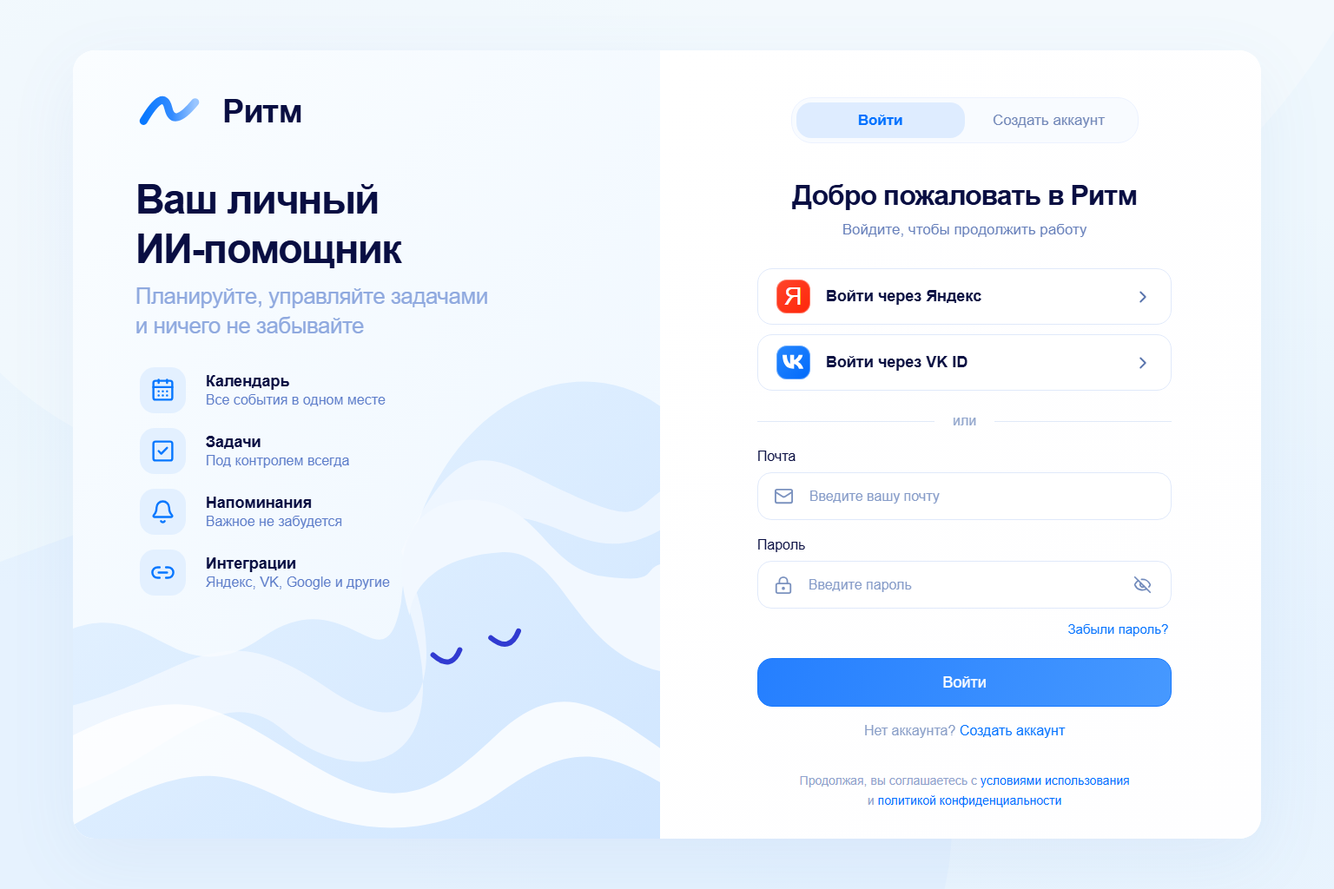
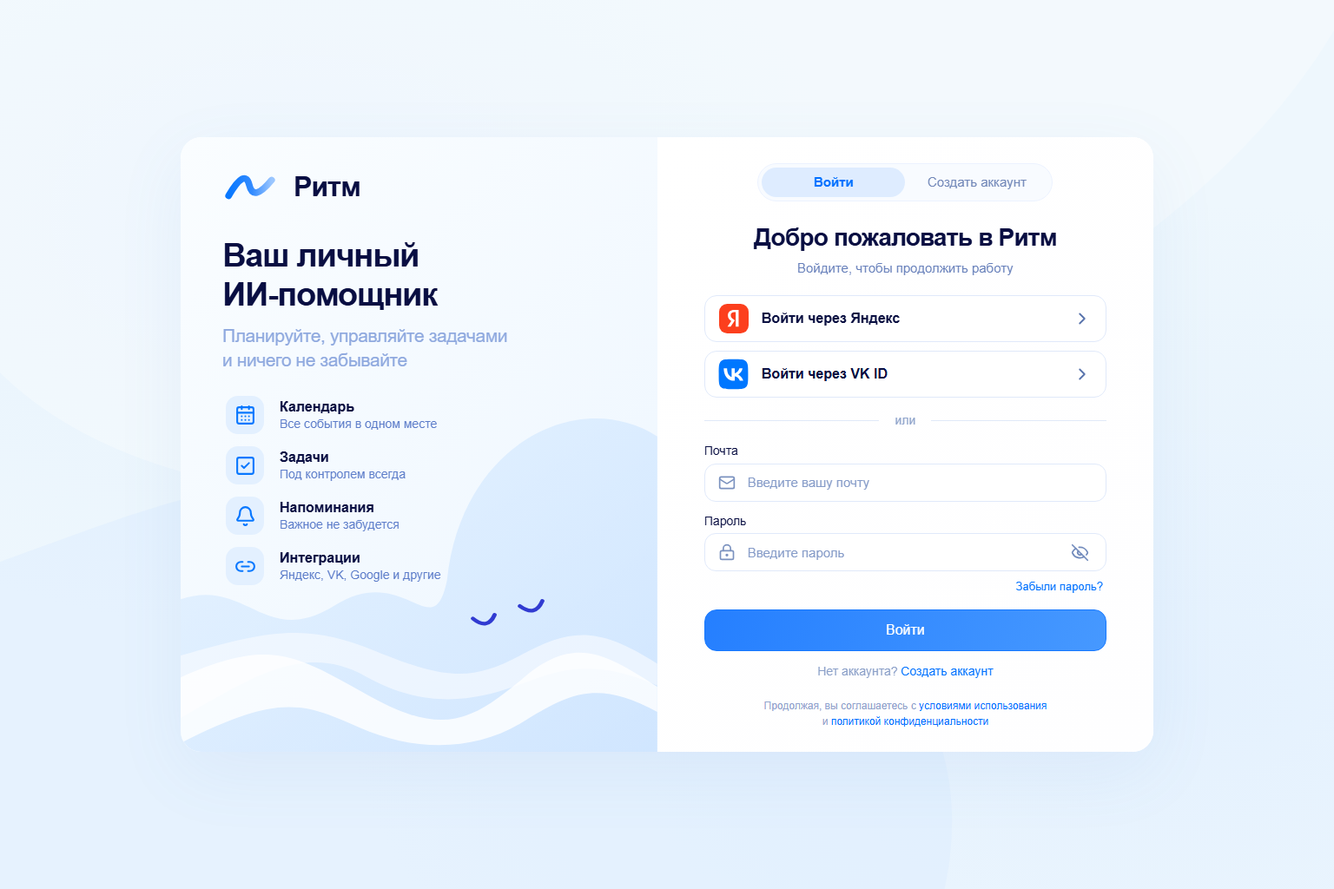
fix(auth): fit viewport and use official provider marks

diff --git a/web/src/styles/auth.css b/web/src/styles/auth.css
@@ -1,25 +1,23 @@
-.auth-page{min-height:100dvh;padding:56px max(24px,5.45vw);display:flex;justify-content:center;align-items:center;color:#090e42;background:radial-gradient(ellipse at 22% 24%,#dcecff66,transparent 44%),radial-gradient(ellipse at 88% 78%,#dcecff88,transparent 50%),#eef7fd;position:relative;isolation:isolate}
+.auth-page{min-height:100dvh;padding:32px max(20px,5vw);display:flex;justify-content:center;align-items:center;color:#090e42;background:radial-gradient(ellipse at 22% 24%,#dcecff66,transparent 44%),radial-gradient(ellipse at 88% 78%,#dcecff88,transparent 50%),#eef7fd;position:relative;isolation:isolate;font-family:Arial,'Segoe UI',sans-serif}
+html:has(.auth-page),html:has(.auth-splash){scrollbar-gutter:auto}
 .auth-page::before,.auth-page::after{content:'';position:fixed;z-index:-1;border-radius:47%;background:#fff5;pointer-events:none;width:115vw;height:68vw;transform:rotate(-20deg);top:-35vw;left:-9vw}.auth-page::after{top:58vh;left:-42vw;background:#d9ecff66}
-.auth-container{width:1370px;max-width:100%;min-height:908px;border-radius:25px;overflow:hidden;display:grid;grid-template-columns:49.4% 50.6%;box-shadow:0 24px 80px #548ac814;background:white;animation:auth-enter .6s cubic-bezier(.2,.7,.2,1) both;transition:opacity .24s ease,transform .24s ease}.auth-success{opacity:0;transform:scale(.985)}
-.auth-information{padding:47px 72px;position:relative;overflow:hidden;background:linear-gradient(135deg,#fafdff,#edf6ff)}.auth-brand{display:flex;align-items:center;gap:22px;font-size:38px;font-weight:700;letter-spacing:-.9px;position:relative;z-index:1}.auth-brand .brand-mark,.auth-mobile-brand .brand-mark{color:#2783ff;width:78px;height:48px}.auth-brand,.auth-pitch,.auth-features{animation:auth-enter .65s cubic-bezier(.2,.7,.2,1) both}
-.auth-pitch{margin-top:51px;position:relative;z-index:1;animation-delay:.07s}.auth-pitch h1{font-size:47px;letter-spacing:-1.6px;line-height:1.21;font-weight:720}.auth-pitch>p{color:#8fa9df;font-size:26px;line-height:1.3;margin-top:12px;letter-spacing:-.5px}.auth-features{position:relative;z-index:1;padding:0;margin:34px 0 0 5px;list-style:none;display:grid;gap:17px;animation-delay:.14s}.auth-features li{display:flex;align-items:center;gap:23px}.auth-features li>span{display:grid;place-items:center;width:53px;height:53px;flex-shrink:0;border-radius:17px;background:#e3f0ff;color:#0777ff}.auth-features strong{font-size:18px;font-weight:650}.auth-features p{font-size:16px;color:#5c7cc9;margin-top:2px}
-.auth-waves{position:absolute;bottom:-4px;left:0;width:100%;height:58%;pointer-events:none}.auth-wave-face{animation:auth-float 6s ease-in-out infinite}.auth-card{padding:54px clamp(38px,6.7vw,103px) 33px clamp(38px,7.3vw,112px);display:flex;flex-direction:column;min-width:0;background:linear-gradient(130deg,#fff,#fefeff)}.auth-mobile-brand{display:none}
-.auth-segment{position:relative;align-self:center;width:400px;max-width:100%;border:1px solid #ecf2ff;border-radius:24px;background:#f8fbff;height:53px;padding:5px;display:grid;grid-template-columns:1fr 1fr;flex-shrink:0}.auth-segment>span{position:absolute;top:5px;bottom:5px;left:5px;width:calc(50% - 5px);border-radius:17px;background:#deecff;transition:transform .32s cubic-bezier(.2,.7,.2,1)}.auth-segment>span.register-selected{transform:translateX(100%)}.auth-segment button{position:relative;z-index:1;padding:0;border:0;background:transparent;color:#7187b8;font-size:17px}.auth-segment button[aria-selected='true']{color:#0071ff;font-weight:650}
-.auth-experience{opacity:1;transform:translateX(0);transition:opacity .16s ease,transform .2s ease}.auth-switching{opacity:0;transform:translateX(-8px)}.auth-welcome{text-align:center;margin:40px -25px 30px}.auth-welcome h2{font-size:32px;font-weight:700;letter-spacing:-1px;line-height:1.25}.auth-welcome p{color:#667fba;font-size:17px;margin-top:10px}.auth-oauth{display:grid;gap:11px}.auth-oauth>button{border:1px solid #e0e9fa;border-radius:17px;min-height:65px;display:flex;align-items:center;gap:18px;padding:11px 21px;color:#0a1042;background:#fff;text-align:left;font-size:18px;font-weight:550;transition:transform .18s ease,box-shadow .18s ease,border-color .18s ease}.auth-oauth>button>svg{margin-left:auto;color:#5873ac;flex-shrink:0}.auth-oauth>button:hover:not(:disabled){transform:translateY(-1px);border-color:#a5c8ff;box-shadow:0 5px 15px #336bc40d}.auth-oauth>button:active:not(:disabled){transform:scale(.99)}
-.oauth-logo{width:39px;height:39px;display:grid;place-items:center;color:white;border-radius:12px;flex-shrink:0;box-shadow:inset 0 0 0 1px #ffffff55}.yandex-logo{background:linear-gradient(135deg,#ff442b,#ff2609);font-size:28px;font-weight:400}.vk-logo{background:linear-gradient(135deg,#2587ff,#0069fa)}.vk-logo svg{width:32px;height:32px}.auth-divider{display:flex;align-items:center;gap:21px;margin:24px 0 17px;color:#91a5cc;font-size:16px}.auth-divider span{height:1px;flex:1;background:#e0e9f8}
-.auth-form{display:flex;flex-direction:column;gap:18px}.auth-label{display:flex;flex-direction:column;gap:9px;font-size:16px}.auth-input{display:flex;align-items:center;border:1px solid #e0e9fa;border-radius:16px;height:55px;color:#7b92bf;padding:0 18px;gap:18px;background:#fff;transition:box-shadow .2s ease,border-color .2s ease}.auth-input:focus-within{border-color:#72aaff;box-shadow:0 0 0 4px #1679ff12}.auth-input>svg{flex-shrink:0}.auth-input input{width:100%;outline:0;border:0;border-radius:0;padding:0;background:transparent;font-size:16px;box-shadow:none}.auth-input input::placeholder{color:#859bc8}.auth-input button{border:0;background:none;color:#728bbc;display:grid;place-items:center;padding:4px;margin-right:0}.auth-forgot{align-self:flex-end;color:#0071ff;font-size:15px;border:0;background:none;padding:0 4px;margin-top:-5px}
-.auth-primary{border:1px solid #1678ff;border-radius:17px;min-height:56px;width:100%;padding:12px 18px;display:flex;align-items:center;justify-content:center;gap:12px;background:linear-gradient(110deg,#257fff,#50a0ff);color:#fff;font-size:18px;font-weight:500;transition:transform .2s ease,box-shadow .2s ease,background-position .3s ease;background-size:130% 100%}.auth-form>.auth-primary{margin-top:5px}.auth-primary:hover:not(:disabled){transform:translateY(-1px);background-position:100% 0;box-shadow:0 7px 18px #287eff29}.auth-primary:active:not(:disabled){transform:scale(.99)}.auth-primary:disabled{opacity:.72}.auth-alternate{text-align:center;color:#8a9fc8;margin-top:19px;font-size:16px}.auth-alternate button{padding:0;color:#0071ff;border:0;background:none}.auth-legal{text-align:center;font-size:14px;color:#90a4ce;line-height:1.6;margin-top:auto;padding-top:34px}.auth-legal a{color:#0071ff}
-.auth-error,.auth-help{border-radius:12px;padding:11px 14px;background:#fff1f2;color:#b32c46;font-size:14px;line-height:1.45;animation:auth-enter .2s ease both}.auth-help{color:#5873aa;background:#eff6ff}.auth-register-field{display:grid;grid-template-rows:0fr;transition:grid-template-rows .32s ease;margin-top:-18px}.auth-register-field>div{overflow:hidden}.auth-register-field.expanded{grid-template-rows:1fr;margin-top:0}.register-mode .auth-welcome{margin-top:28px;margin-bottom:24px}.auth-spinner{animation:auth-spin .9s linear infinite}
+.auth-container{--form-gap:14px;--field-height:44px;--label-gap:6px;--oauth-height:54px;--primary-height:48px;width:1120px;max-width:100%;border-radius:24px;overflow:hidden;display:grid;grid-template-columns:49% 51%;box-shadow:0 24px 80px #548ac814;background:white;animation:auth-enter .6s cubic-bezier(.2,.7,.2,1) both;transition:opacity .24s ease,transform .24s ease}.auth-success{opacity:0;transform:scale(.985)}
+.auth-information{padding:38px 48px;position:relative;overflow:hidden;background:linear-gradient(135deg,#fafdff,#edf6ff)}.auth-brand{display:flex;align-items:center;gap:18px;font-size:32px;font-weight:700;letter-spacing:-.9px;position:relative;z-index:1}.auth-brand .brand-mark,.auth-mobile-brand .brand-mark{color:#2783ff;width:64px;height:40px}.auth-brand,.auth-pitch,.auth-features{animation:auth-enter .65s cubic-bezier(.2,.7,.2,1) both}
+.auth-pitch{margin-top:36px;position:relative;z-index:1;animation-delay:.07s}.auth-pitch h1{font-size:38px;letter-spacing:-1.3px;line-height:1.21;font-weight:720}.auth-pitch>p{color:#8fa9df;font-size:21px;line-height:1.3;margin-top:10px;letter-spacing:-.4px}.auth-features{position:relative;z-index:1;padding:0;margin:28px 0 0 4px;list-style:none;display:grid;gap:14px;animation-delay:.14s}.auth-features li{display:flex;align-items:center;gap:18px}.auth-features li>span{display:grid;place-items:center;width:44px;height:44px;flex-shrink:0;border-radius:14px;background:#e3f0ff;color:#0777ff}.auth-features li>span>svg{width:25px;height:25px}.auth-features strong{font-size:16px;font-weight:650}.auth-features p{font-size:14px;color:#5c7cc9;margin-top:2px}
+.auth-waves{position:absolute;bottom:-4px;left:0;width:100%;height:60%;pointer-events:none}.auth-wave-face{animation:auth-float 6s ease-in-out infinite}.auth-card{padding:30px 54px 26px;display:flex;flex-direction:column;min-width:0;background:linear-gradient(130deg,#fff,#fefeff)}.auth-mobile-brand{display:none}
+.auth-segment{position:relative;align-self:center;width:340px;max-width:100%;border:1px solid #ecf2ff;border-radius:22px;background:#f8fbff;height:44px;padding:4px;display:grid;grid-template-columns:1fr 1fr;flex-shrink:0}.auth-segment>span{position:absolute;top:4px;bottom:4px;left:4px;width:calc(50% - 4px);border-radius:17px;background:#deecff;transition:transform .32s cubic-bezier(.2,.7,.2,1)}.auth-segment>span.register-selected{transform:translateX(100%)}.auth-segment button{position:relative;z-index:1;padding:0;border:0;background:transparent;color:#7187b8;font-size:15px}.auth-segment button[aria-selected='true']{color:#0071ff;font-weight:650}
+.auth-experience{opacity:1;transform:translateX(0);transition:opacity .16s ease,transform .2s ease}.auth-switching{opacity:0;transform:translateX(-8px)}.auth-welcome{text-align:center;margin:24px -12px 22px}.auth-welcome h2{font-size:28px;font-weight:700;letter-spacing:-.8px;line-height:1.25}.auth-welcome p{color:#667fba;font-size:15px;line-height:1.3;margin-top:8px}.auth-oauth{display:grid;gap:10px}.auth-oauth>button{border:1px solid #e0e9fa;border-radius:14px;min-height:var(--oauth-height);display:flex;align-items:center;gap:15px;padding:7px 16px;color:#0a1042;background:#fff;text-align:left;font-size:16px;font-weight:550;transition:transform .18s ease,box-shadow .18s ease,border-color .18s ease}.auth-oauth>button>svg{margin-left:auto;color:#5873ac;flex-shrink:0}.auth-oauth>button:hover:not(:disabled){transform:translateY(-1px);border-color:#a5c8ff;box-shadow:0 5px 15px #336bc40d}.auth-oauth>button:active:not(:disabled){transform:scale(.99)}
+.oauth-logo{width:34px;height:34px;display:flex;align-items:center;justify-content:center;flex-shrink:0}.oauth-logo img{display:block;width:100%;height:auto;flex-shrink:0}.oauth-logo-vk img{width:127.2727%}.auth-divider{display:flex;align-items:center;gap:18px;margin:18px 0;color:#91a5cc;font-size:14px;line-height:1.2}.auth-divider span{height:1px;flex:1;background:#e0e9f8}
+.auth-form{display:flex;flex-direction:column;gap:var(--form-gap)}.auth-label{display:flex;flex-direction:column;gap:var(--label-gap);font-size:14px;line-height:1.2}.auth-input{display:flex;align-items:center;border:1px solid #e0e9fa;border-radius:13px;height:var(--field-height);color:#7b92bf;padding:0 15px;gap:14px;background:#fff;transition:box-shadow .2s ease,border-color .2s ease}.auth-input:focus-within{border-color:#72aaff;box-shadow:0 0 0 4px #1679ff12}.auth-input>svg{flex-shrink:0;width:20px;height:20px}.auth-input input{width:100%;min-width:0;outline:0;border:0;border-radius:0;padding:0;background:transparent;font-size:15px;line-height:1.3;box-shadow:none}.auth-input input::placeholder{color:#859bc8}.auth-input button{border:0;background:none;color:#728bbc;display:grid;place-items:center;padding:4px;margin-right:0}.auth-forgot{align-self:flex-end;color:#0071ff;font-size:13px;line-height:1.3;border:0;background:none;padding:0 4px;margin-top:-4px}
+.auth-primary{border:1px solid #1678ff;border-radius:14px;min-height:var(--primary-height,56px);width:100%;padding:9px 16px;display:flex;align-items:center;justify-content:center;gap:12px;background:linear-gradient(110deg,#257fff,#50a0ff);color:#fff;font-size:16px;font-weight:500;transition:transform .2s ease,box-shadow .2s ease,background-position .3s ease;background-size:130% 100%}.auth-form>.auth-primary{margin-top:3px}.auth-primary:hover:not(:disabled){transform:translateY(-1px);background-position:100% 0;box-shadow:0 7px 18px #287eff29}.auth-primary:active:not(:disabled){transform:scale(.99)}.auth-primary:disabled{opacity:.72}.auth-alternate{text-align:center;color:#8a9fc8;margin-top:14px;font-size:14px;line-height:1.3}.auth-alternate button{padding:0;color:#0071ff;border:0;background:none}.auth-legal{text-align:center;font-size:12px;color:#90a4ce;line-height:1.5;margin-top:auto;padding-top:22px}.auth-legal a{color:#0071ff}
+.auth-error,.auth-help{border-radius:12px;padding:11px 14px;background:#fff1f2;color:#b32c46;font-size:14px;line-height:1.45;animation:auth-enter .2s ease both}.auth-help{color:#5873aa;background:#eff6ff}.auth-register-field{display:grid;grid-template-rows:0fr;transition:grid-template-rows .32s ease;margin-top:calc(-1 * var(--form-gap))}.auth-register-field>div{overflow:hidden}.auth-register-field.expanded{grid-template-rows:1fr;margin-top:0}.auth-spinner{animation:auth-spin .9s linear infinite}
+.auth-register{--form-gap:10px;--field-height:38px;--label-gap:4px;--oauth-height:44px;--primary-height:44px}.auth-register .auth-card{padding-top:22px;padding-bottom:20px}.auth-register .auth-welcome{margin-top:16px;margin-bottom:14px}.auth-register .auth-welcome h2{font-size:26px}.auth-register .auth-welcome p{margin-top:6px;font-size:14px}.auth-register .auth-oauth{gap:8px}.auth-register .auth-oauth>button{padding-top:5px;padding-bottom:5px;font-size:15px}.auth-register .oauth-logo{width:30px;height:30px}.auth-register .auth-divider{margin:12px 0}.auth-register .auth-alternate{margin-top:10px;font-size:13px}.auth-register .auth-legal{padding-top:14px;font-size:11px}
 .auth-splash{min-height:100dvh;display:flex;flex-direction:column;align-items:center;justify-content:center;gap:22px;color:#1979ff;background:#f3f8ff;font-size:24px}.auth-splash .auth-primary{width:200px}.auth-policy{max-width:700px;padding:44px;background:white;border-radius:24px;display:grid;gap:24px;line-height:1.6}.auth-policy h1{font-size:30px}
 .onboarding-card{position:relative;overflow:hidden;width:680px;min-height:690px;border-radius:26px;background:linear-gradient(150deg,#fff,#f0f7ff);padding:43px 65px;box-shadow:0 24px 80px #548ac814;text-align:center;animation:auth-enter .5s ease both}.onboarding-card>.auth-brand{justify-content:center;font-size:30px;gap:15px}.onboarding-card>.auth-brand .brand-mark{width:60px}.onboarding-card .auth-waves{height:34%;opacity:.6;z-index:0}.onboarding-step{position:relative;z-index:1;animation:auth-enter .35s ease both;padding-top:34px}.onboarding-symbol{display:grid;place-items:center;margin:0 auto 23px;width:82px;height:82px;border-radius:25px;color:#1678ff;background:#e5f0ff}.onboarding-symbol .brand-mark{width:55px}.onboarding-step h1{font-size:33px;letter-spacing:-.8px}.onboarding-step>p{margin:16px auto 26px;color:#748bb9;font-size:18px;line-height:1.5;max-width:450px}.onboarding-step .onboarding-note{font-size:14px;margin-top:-10px}.onboarding-later{border:0;background:none;color:#6b83b8;padding:18px}.onboarding-dots{position:relative;z-index:1;display:flex;gap:8px;justify-content:center;margin-top:32px}.onboarding-dots span{width:7px;height:7px;border-radius:50%;background:#ccddf4;transition:width .2s ease}.onboarding-dots .active{background:#2280ff;width:23px;border-radius:8px}
 .account-profile{display:flex;align-items:center;gap:16px;margin:20px 0}.account-avatar{display:grid;place-items:center;width:58px;height:58px;border-radius:50%;background:#e8f1ff;color:#1678ff;font-size:21px;overflow:hidden}.account-avatar img,.avatar img{width:100%;height:100%;object-fit:cover}.account-methods{display:grid;gap:12px;margin-bottom:22px}.account-methods>div{display:flex;align-items:center;justify-content:space-between}.account-methods span{color:#7385aa;font-size:14px}
 @keyframes auth-enter{from{opacity:0;transform:translateY(13px)}to{opacity:1;transform:translateY(0)}}@keyframes auth-float{0%,100%{transform:translateY(0)}50%{transform:translateY(-3px)}}@keyframes auth-spin{to{transform:rotate(360deg)}}
-@media(max-width:1250px){.auth-page{padding:32px}.auth-container{min-height:850px;grid-template-columns:46% 54%}.auth-information{padding:45px 40px}.auth-pitch h1{font-size:40px}.auth-pitch>p{font-size:21px}.auth-card{padding:44px 38px 30px}.auth-welcome h2{font-size:28px}.auth-brand{font-size:33px}.auth-features li{gap:17px}.auth-features p{font-size:14px}}
-@media(max-width:760px){.auth-page{padding:20px 16px;align-items:flex-start}.auth-container{display:block;min-height:0;border-radius:23px;width:470px}.auth-information{display:none}.auth-card{padding:25px 22px 27px}.auth-mobile-brand{display:flex;align-items:center;justify-content:center;gap:13px;font-size:29px;font-weight:700;margin-bottom:26px}.auth-mobile-brand .brand-mark{width:55px;height:35px}.auth-segment{width:100%;height:49px}.auth-segment button{font-size:15px}.auth-welcome{margin:28px 0 24px}.auth-welcome h2{font-size:25px;letter-spacing:-.65px}.auth-welcome p{font-size:14px}.auth-oauth>button{font-size:15px;min-height:59px;padding:10px 14px;gap:13px}.oauth-logo{width:35px;height:35px;border-radius:10px}.auth-divider{margin:22px 0 18px}.auth-legal{font-size:11px;padding-top:30px}.auth-form{gap:17px}.auth-input{gap:12px;padding:0 14px}.auth-label,.auth-input input{font-size:14px}.auth-alternate{font-size:14px}.auth-register-field{margin-top:-17px}.onboarding-card{padding:30px 24px;min-height:650px}.onboarding-step h1{font-size:29px}.onboarding-step>p{font-size:16px}.onboarding-step .auth-primary{font-size:15px}.auth-policy{padding:26px}}
+@media(max-width:1100px){.auth-page{padding:24px}.auth-information{padding:32px}.auth-pitch h1{font-size:34px}.auth-pitch>p{font-size:18px}.auth-card{padding-left:32px;padding-right:32px}.auth-welcome h2{font-size:25px}.auth-features li{gap:14px}.auth-features p{font-size:13px}}
+@media(max-width:760px){.auth-page{padding:16px}.auth-container{display:block;border-radius:22px;width:450px}.auth-information{display:none}.auth-card{padding:22px 24px}.auth-mobile-brand{display:flex;align-items:center;justify-content:center;gap:12px;font-size:27px;font-weight:700;margin-bottom:18px}.auth-mobile-brand .brand-mark{width:50px;height:32px}.auth-segment{width:100%}.auth-welcome{margin:22px 0 20px}.auth-welcome h2{font-size:24px;letter-spacing:-.6px}.auth-welcome p{font-size:14px}.auth-oauth>button{font-size:15px;padding-left:13px;padding-right:13px;gap:12px}.auth-input{gap:12px;padding:0 13px}.auth-input input{font-size:16px}.auth-legal{font-size:11px;padding-top:18px}.auth-register .auth-mobile-brand{margin-bottom:14px}.onboarding-card{padding:30px 24px;min-height:650px}.onboarding-step h1{font-size:29px}.onboarding-step>p{font-size:16px}.onboarding-step .auth-primary{font-size:15px}.auth-policy{padding:26px}}
+@media(max-height:850px){.auth-page{padding-top:12px;padding-bottom:12px}.auth-container{--form-gap:12px;--oauth-height:48px;--primary-height:44px}.auth-card{padding-top:20px;padding-bottom:18px}.auth-welcome{margin-top:18px;margin-bottom:18px}.auth-welcome h2{font-size:25px}.auth-welcome p{margin-top:6px;font-size:14px}.auth-oauth{gap:8px}.auth-oauth>button{padding-top:6px;padding-bottom:6px}.auth-divider{margin:14px 0}.auth-alternate{margin-top:12px;font-size:13px}.auth-legal{padding-top:16px;font-size:11px}.auth-information{padding-top:30px}.auth-pitch{margin-top:28px}.auth-pitch h1{font-size:34px}.auth-pitch>p{font-size:19px}.auth-features{margin-top:23px;gap:12px}.auth-waves{height:55%}.auth-register{--form-gap:9px;--field-height:36px;--label-gap:4px;--oauth-height:42px;--primary-height:42px}.auth-register .auth-card{padding-top:18px;padding-bottom:16px}.auth-register .auth-welcome{margin-top:14px;margin-bottom:12px}.auth-register .auth-welcome h2{font-size:24px}.auth-register .auth-welcome p{font-size:13px}.auth-register .auth-divider{margin:10px 0}.auth-register .auth-legal{padding-top:12px}}
+@media(max-height:760px){.auth-page{padding-top:8px;padding-bottom:8px}.auth-container{--form-gap:10px;--field-height:40px;--oauth-height:42px;--primary-height:42px}.auth-card{padding-top:16px;padding-bottom:16px}.auth-welcome{margin-top:14px;margin-bottom:14px}.auth-welcome h2{font-size:24px}.auth-divider{margin:12px 0}.auth-oauth>button{padding-top:5px;padding-bottom:5px}.oauth-logo{width:30px;height:30px}.auth-mobile-brand{font-size:24px;margin-bottom:12px}.auth-mobile-brand .brand-mark{width:44px;height:28px}.auth-information{padding-top:24px}.auth-pitch{margin-top:24px}.auth-pitch h1{font-size:32px}.auth-pitch>p{font-size:18px}.auth-features{gap:10px;margin-top:20px}.auth-features li>span{width:40px;height:40px}.auth-register{--form-gap:8px;--field-height:34px;--label-gap:3px;--oauth-height:38px;--primary-height:40px}.auth-register .auth-card{padding-top:12px;padding-bottom:12px}.auth-register .auth-segment{height:38px}.auth-register .auth-welcome{margin-top:12px;margin-bottom:10px}.auth-register .auth-welcome h2{font-size:23px}.auth-register .auth-welcome p{margin-top:4px;font-size:12px}.auth-register .auth-oauth{gap:6px}.auth-register .auth-oauth>button{padding-top:4px;padding-bottom:4px}.auth-register .oauth-logo{width:28px;height:28px}.auth-register .auth-divider{margin:8px 0}.auth-register .auth-label{font-size:13px}.auth-register .auth-alternate{margin-top:8px;font-size:12px}.auth-register .auth-legal{padding-top:10px;font-size:10px}.auth-register .auth-mobile-brand{margin-bottom:10px}}
 @media(prefers-reduced-motion:reduce){.auth-page *,.auth-page *::before,.auth-page *::after{animation:none!important;transition:none!important}.auth-oauth>button:hover,.auth-primary:hover{transform:none}}
-.auth-page{font-family:Arial,'Segoe UI',sans-serif}
-html:has(.auth-page),html:has(.auth-splash){scrollbar-gutter:auto}
-.auth-oauth .yandex-logo::before,.auth-oauth .yandex-logo::after{display:none}
-.auth-information{padding-top:46px}.auth-pitch{margin-top:50px}.auth-pitch>p{margin-top:9px}.auth-features{margin-top:31px}.auth-waves{height:64%}
-.auth-welcome{margin-bottom:34px}.auth-divider{margin-top:26px;margin-bottom:23px}.auth-form{gap:20px}.auth-register-field{margin-top:-20px}.auth-register-field.expanded{margin-top:0}
-@media(max-width:760px){.auth-welcome{margin-bottom:24px}.auth-divider{margin:22px 0 18px}.auth-form{gap:17px}.auth-register-field{margin-top:-17px}.auth-register-field.expanded{margin-top:0}}

diff --git a/web/src/pages/Auth/AuthPage.tsx b/web/src/pages/Auth/AuthPage.tsx
@@ -4,8 +4,10 @@ import { Navigate, useSearchParams } from 'react-router-dom';
 import { BrandMark } from '../../components/Brand';
 import { useAuth } from '../../app/AuthContext';
 import { errorMessage } from '../../api/client';
+import yandexLogo from '../../assets/oauth/yandex.svg';
+import vkLogo from '../../assets/oauth/vk.svg';
 export function AuthWaves() {
-  return <svg className="auth-waves" viewBox="0 0 680 590" preserveAspectRatio="none" aria-hidden="true"><defs><linearGradient id="auth-water" x1="0" y1="0" x2="1" y2="1"><stop stopColor="#dceeff"/><stop offset="1" stopColor="#bddbff"/></linearGradient></defs><path fill="url(#auth-water)" opacity=".6" d="M0 340C95 305 120 420 220 350S360 418 380 310C400 90 570 0 680 80V590H0Z"/><path fill="#f7fbff" opacity=".65" d="M0 430C145 390 165 320 295 410S430 355 380 250C450 100 485 140 570 180S650 202 680 180V225C600 270 565 205 495 210S384 290 390 320C450 515 320 525 245 460S110 490 0 530Z"/><path fill="#fff" opacity=".8" d="M0 465C130 400 165 430 270 495S416 535 490 465S609 430 680 480V520C598 470 558 487 490 535S336 585 255 545S140 490 0 570Z"/><path fill="#f2f8ff" d="M680 390C576 365 570 246 495 251S392 293 390 325C364 243 397 185 469 190S549 270 614 279S659 272 680 265Z"/><g className="auth-wave-face" fill="none" stroke="#313bd1" strokeWidth="6" strokeLinecap="round"><path d="M417 371q21 19 31-6"/><path d="M484 351q22 18 32-8"/></g></svg>;
+  return <svg className="auth-waves" viewBox="0 0 680 590" preserveAspectRatio="none" aria-hidden="true"><defs><linearGradient id="auth-water" x1="0" y1="0" x2="1" y2="1"><stop stopColor="#dceeff"/><stop offset="1" stopColor="#bddbff"/></linearGradient></defs><path fill="url(#auth-water)" opacity=".6" d="M0 340C95 305 120 420 220 350S360 418 380 310C400 90 570 0 680 80V590H0Z"/><path fill="#f7fbff" opacity=".65" d="M0 430C125 390 178 377 278 423S417 471 486 429S595 382 680 443V478C577 428 529 459 475 480S350 518 263 463S99 467 0 530Z"/><path fill="#fff" opacity=".8" d="M0 465C130 400 165 430 270 495S416 535 490 465S609 430 680 480V520C598 470 558 487 490 535S336 585 255 545S140 490 0 570Z"/><g className="auth-wave-face" fill="none" stroke="#313bd1" strokeWidth="6" strokeLinecap="round"><path d="M417 371q21 19 31-6"/><path d="M484 351q22 18 32-8"/></g></svg>;
 }
 const oauthErrors: Record<string, string> = { oauth_account_exists: 'Войдите в существующий аккаунт и подключите этот способ входа в настройках.', oauth_invalid: 'Не удалось завершить вход. Попробуйте ещё раз.', oauth_cancelled: 'Авторизация была отменена', oauth_unavailable: 'Вход через этот сервис ещё не настроен. Используйте почту.', session: 'Сессия истекла. Войдите снова.' };
 export function AuthPage() {
@@ -21,11 +23,11 @@ export function AuthPage() {
   }
   function oauth(provider: 'yandex' | 'vk') { if (locked.current || phase) return; locked.current = true; setBusy(provider); window.location.assign(`/api/auth/${provider}/start`); }
   const passwordInput = (repeat = false) => <label className="auth-label">{repeat ? 'Повторите пароль' : 'Пароль'}<span className="auth-input"><LockKeyhole size={22}/><input type={visible ? 'text' : 'password'} autoComplete={isRegister ? 'new-password' : 'current-password'} value={repeat ? confirmation : password} onChange={e => repeat ? setConfirmation(e.target.value) : setPassword(e.target.value)} placeholder={repeat ? 'Введите пароль ещё раз' : 'Введите пароль'} required maxLength={1024} aria-invalid={!!error}/>{!repeat && <button type="button" aria-label={visible ? 'Скрыть пароль' : 'Показать пароль'} onClick={() => setVisible(!visible)}>{visible ? <Eye size={21}/> : <EyeOff size={21}/>}</button>}</span></label>;
-  return <main className="auth-page"><div className={`auth-container ${phase === 'success' ? 'auth-success' : ''}`}>
+  return <main className="auth-page"><div className={`auth-container ${isRegister ? 'auth-register' : ''} ${phase === 'success' ? 'auth-success' : ''}`}>
     <section className="auth-information"><div className="auth-brand"><BrandMark gradient/><span>Ритм</span></div><div className="auth-pitch"><h1>Ваш личный<br/>ИИ-помощник</h1><p>Планируйте, управляйте задачами<br/>и ничего не забывайте</p></div><ul className="auth-features">{[{ icon: CalendarDays, title: 'Календарь', text: 'Все события в одном месте' }, { icon: SquareCheck, title: 'Задачи', text: 'Под контролем всегда' }, { icon: Bell, title: 'Напоминания', text: 'Важное не забудется' }, { icon: Link2, title: 'Интеграции', text: 'Яндекс, VK, Google и другие' }].map(({ icon: Icon, title, text }) => <li key={title}><span><Icon size={29} strokeWidth={2}/></span><div><strong>{title}</strong><p>{text}</p></div></li>)}</ul><AuthWaves/></section>
     <section className="auth-card" aria-label="Авторизация"><div className="auth-mobile-brand"><BrandMark gradient/><span>Ритм</span></div><div className="auth-segment" role="tablist" aria-label="Способ авторизации"><span className={isRegister ? 'register-selected' : ''}/><button type="button" role="tab" aria-selected={!isRegister} disabled={!!busy || !!phase} onClick={() => switchMode('login')}>Войти</button><button type="button" role="tab" aria-selected={isRegister} disabled={!!busy || !!phase} onClick={() => switchMode('register')}>Создать аккаунт</button></div>
       <div className={`auth-experience ${isRegister ? 'register-mode' : ''} ${phase === 'switching' ? 'auth-switching' : ''}`}><header className="auth-welcome"><h2>{isRegister ? 'Создайте аккаунт Ритм' : 'Добро пожаловать в Ритм'}</h2><p>{isRegister ? 'Ваши дела — в одном спокойном ритме' : 'Войдите, чтобы продолжить работу'}</p></header>
-      <div className="auth-oauth"><button type="button" disabled={!!busy || !!phase} onClick={() => oauth('yandex')}><span aria-hidden="true" className="oauth-logo yandex-logo">Я</span><span>{busy === 'yandex' ? 'Переходим в Яндекс…' : `${isRegister ? 'Продолжить с Яндексом' : 'Войти через Яндекс'}`}</span>{busy === 'yandex' ? <LoaderCircle className="auth-spinner" size={20}/> : <ChevronRight size={22}/>}</button><button type="button" disabled={!!busy || !!phase} onClick={() => oauth('vk')}><span aria-hidden="true" className="oauth-logo vk-logo"><svg viewBox="0 0 24 24" aria-hidden="true"><path fill="currentColor" d="M3 5h3.7c.2 4.8 1.7 6.8 2.9 7.8V5H13v4.4c1.6-.2 3.4-2.4 4-4.4h3.5c-.5 2.8-2.6 5-4 6 1.4.8 3.7 2.8 4.5 6h-3.8c-.7-2.1-2.5-3.8-4.2-4V17h-.5C5.8 17 3.3 12.5 3 5Z"/></svg></span><span>{busy === 'vk' ? 'Переходим в VK ID…' : isRegister ? 'Продолжить с VK ID' : 'Войти через VK ID'}</span>{busy === 'vk' ? <LoaderCircle className="auth-spinner" size={20}/> : <ChevronRight size={22}/>}</button></div>
+      <div className="auth-oauth"><button type="button" disabled={!!busy || !!phase} onClick={() => oauth('yandex')}><span aria-hidden="true" className="oauth-logo"><img src={yandexLogo} alt=""/></span><span>{busy === 'yandex' ? 'Переходим в Яндекс…' : `${isRegister ? 'Продолжить с Яндексом' : 'Войти через Яндекс'}`}</span>{busy === 'yandex' ? <LoaderCircle className="auth-spinner" size={20}/> : <ChevronRight size={22}/>}</button><button type="button" disabled={!!busy || !!phase} onClick={() => oauth('vk')}><span aria-hidden="true" className="oauth-logo oauth-logo-vk"><img src={vkLogo} alt=""/></span><span>{busy === 'vk' ? 'Переходим в VK ID…' : isRegister ? 'Продолжить с VK ID' : 'Войти через VK ID'}</span>{busy === 'vk' ? <LoaderCircle className="auth-spinner" size={20}/> : <ChevronRight size={22}/>}</button></div>
       <div className="auth-divider"><span/>или<span/></div><form onSubmit={e => void submit(e)} className="auth-form">
         <div className={`auth-register-field ${isRegister ? 'expanded' : ''}`}><div>{isRegister && <label className="auth-label">Имя<span className="auth-input"><UserRound size={22}/><input autoComplete="name" value={name} onChange={e => setName(e.target.value)} placeholder="Как к вам обращаться" required maxLength={100}/></span></label>}</div></div>
         <label className="auth-label">Почта<span className="auth-input"><Mail size={23}/><input type="email" autoComplete="email" value={email} onChange={e => setEmail(e.target.value)} placeholder="Введите вашу почту" required maxLength={254} aria-invalid={!!error}/></span></label>{passwordInput()}

diff --git a/web/e2e/auth.spec.ts b/web/e2e/auth.spec.ts
@@ -4,6 +4,24 @@ import { mkdir } from 'node:fs/promises';
 import { resolve } from 'node:path';
 const password = 'test password 12345';
 async function settle(page: Page) { await page.evaluate(async () => { await Promise.allSettled(document.getAnimations().filter(animation => animation.effect?.getComputedTiming().iterations !== Infinity).map(animation => animation.finished)); }); }
+test('login and registration fit desktop and mobile windows without scrolling or clipping', async ({ page }) => {
+ await page.emulateMedia({ reducedMotion: 'reduce' });
+ for (const viewport of [{ width: 1536, height: 1024 }, { width: 1440, height: 900 }, { width: 1366, height: 768 }, { width: 1280, height: 720 }, { width: 593, height: 932 }, { width: 390, height: 844 }, { width: 360, height: 740 }]) {
+  await page.setViewportSize(viewport); await page.goto('/auth');
+  for (const mode of ['login', 'register']) {
+   if (mode === 'register') { await page.getByRole('tab', { name: 'Создать аккаунт' }).click(); await expect(page.getByLabel('Повторите пароль')).toBeVisible(); }
+   const size = await page.evaluate(() => ({ height: document.documentElement.scrollHeight, width: document.documentElement.scrollWidth, viewportHeight: innerHeight, viewportWidth: innerWidth }));
+   expect(size.height, `${mode} at ${viewport.width}×${viewport.height}`).toBeLessThanOrEqual(size.viewportHeight);
+   expect(size.width).toBeLessThanOrEqual(size.viewportWidth);
+   await expect(page.locator('.auth-segment')).toBeInViewport({ ratio: 1 });
+   await expect(page.locator('.auth-form .auth-primary')).toBeInViewport({ ratio: 1 });
+   await expect(page.locator('.auth-legal')).toBeInViewport({ ratio: 1 });
+   for (const input of await page.locator('.auth-form input').all()) await expect(input).toBeInViewport({ ratio: 1 });
+   expect(await page.locator('.auth-card').evaluate(element => element.scrollHeight <= element.clientHeight + 1)).toBe(true);
+   expect(await page.locator('.auth-oauth img').evaluateAll(images => images.every(image => image instanceof HTMLImageElement && image.complete && image.naturalWidth > 0))).toBe(true);
+  }
+ }
+});
 test('logout clears protected content in another tab sharing the session', async ({ page, context }) => {
  const registered = await context.request.post('/api/auth/register', { data: { name: 'Две вкладки', email: `tabs-${Date.now()}@example.test`, password, password_confirmation: password } }); expect(registered.status()).toBe(201); await context.request.post('/api/auth/onboarding', { data: {} });
  await page.goto('/tasks'); await expect(page.locator('.profile-name')).toHaveText('Две вкладки'); const other = await context.newPage(); await other.goto('/settings'); await other.getByRole('button', { name: 'Выйти', exact: true }).click();

diff --git a/docs/screenshots/p1-2/index.html b/docs/screenshots/p1-2/index.html
@@ -1,1 +1,1 @@
-<!doctype html><html lang="ru"><meta charset="utf-8"><title>P1.2 · Auth comparison</title><style>body{font:16px system-ui;background:#eef5fc;margin:30px;color:#111b46}main{display:grid;grid-template-columns:1fr 1fr;gap:20px}img{width:100%;border-radius:12px}section{margin:20px 0}h1{font-size:24px}a{color:#1678ff}</style><h1>Ритм · утверждённый reference / React</h1><main><section><h2>REFERENCE</h2><img src="reference.png"></section><section><h2>ACTUAL · 1536 × 1024</h2><img src="login-desktop.png"></section></main><main><section><h2>Регистрация</h2><img src="register-desktop.png"></section><section><h2>Мобильный экран</h2><img style="max-width:390px" src="login-mobile.png"></section></main></html>
+<!doctype html><html lang="ru"><meta charset="utf-8"><title>P1.2 · Auth comparison</title><style>body{font:16px system-ui;background:#eef5fc;margin:30px;color:#111b46}main{display:grid;grid-template-columns:1fr 1fr;gap:20px}img{width:100%;border-radius:12px}section{margin:20px 0}h1{font-size:24px}a{color:#1678ff}</style><h1>Ритм · утверждённый reference / React</h1><main><section><h2>REFERENCE</h2><img src="reference.png"></section><section><h2>ACTUAL · 1536 × 1024</h2><img src="login-desktop.png"></section></main><main><section><h2>Регистрация</h2><img src="register-desktop.png"></section><section><h2>Мобильный экран</h2><img style="max-width:390px" src="login-mobile.png"></section></main><main><section><h2>Вход · 1366 × 768 · без прокрутки</h2><img src="login-compact-desktop.png"></section><section><h2>Регистрация · 1366 × 768 · без прокрутки</h2><img src="register-compact-desktop.png"></section></main><section><h2>Регистрация на мобильном экране · 390 × 844</h2><img style="max-width:390px" src="register-mobile.png"></section></html>

diff --git a/web/src/assets/oauth/README.md b/web/src/assets/oauth/README.md
@@ -1,0 +1,8 @@
+# OAuth provider marks
+
+The original SVG artwork is stored locally and loaded through Vite so sign-in does not depend on external image requests.
+
+- `yandex.svg`: rounded icon from the official [Yandex ID button design documentation](https://yandex.ru/dev/id/doc/ru/codes/buttons-design), downloaded 2026-10-13. Artwork and colors are unchanged.
+- `vk.svg`: original [`logo_vk_color_56.svg`](https://github.com/VKCOM/icons/blob/master/packages/icons/src/svg/56/logo_vk_color_56.svg) from VK's official icon library, downloaded 2026-10-13. Artwork and colors are unchanged. The display size compensates for the SVG's built-in empty margin; the mark keeps its original proportions.
+
+VK's library license is included in `VK-LICENSE.txt`.
